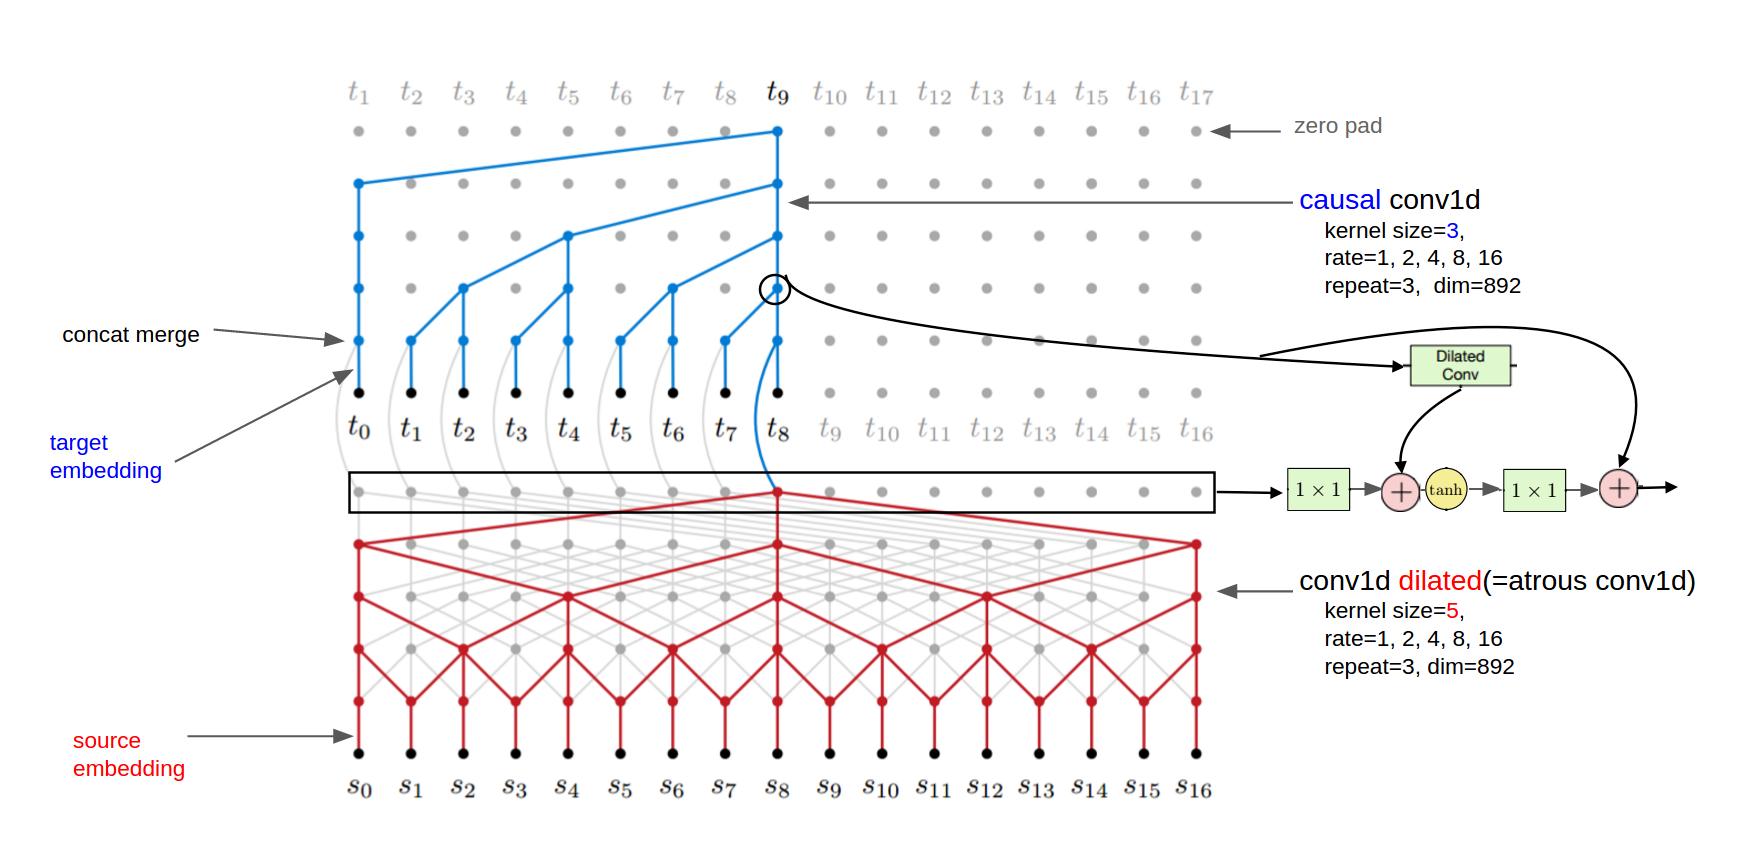
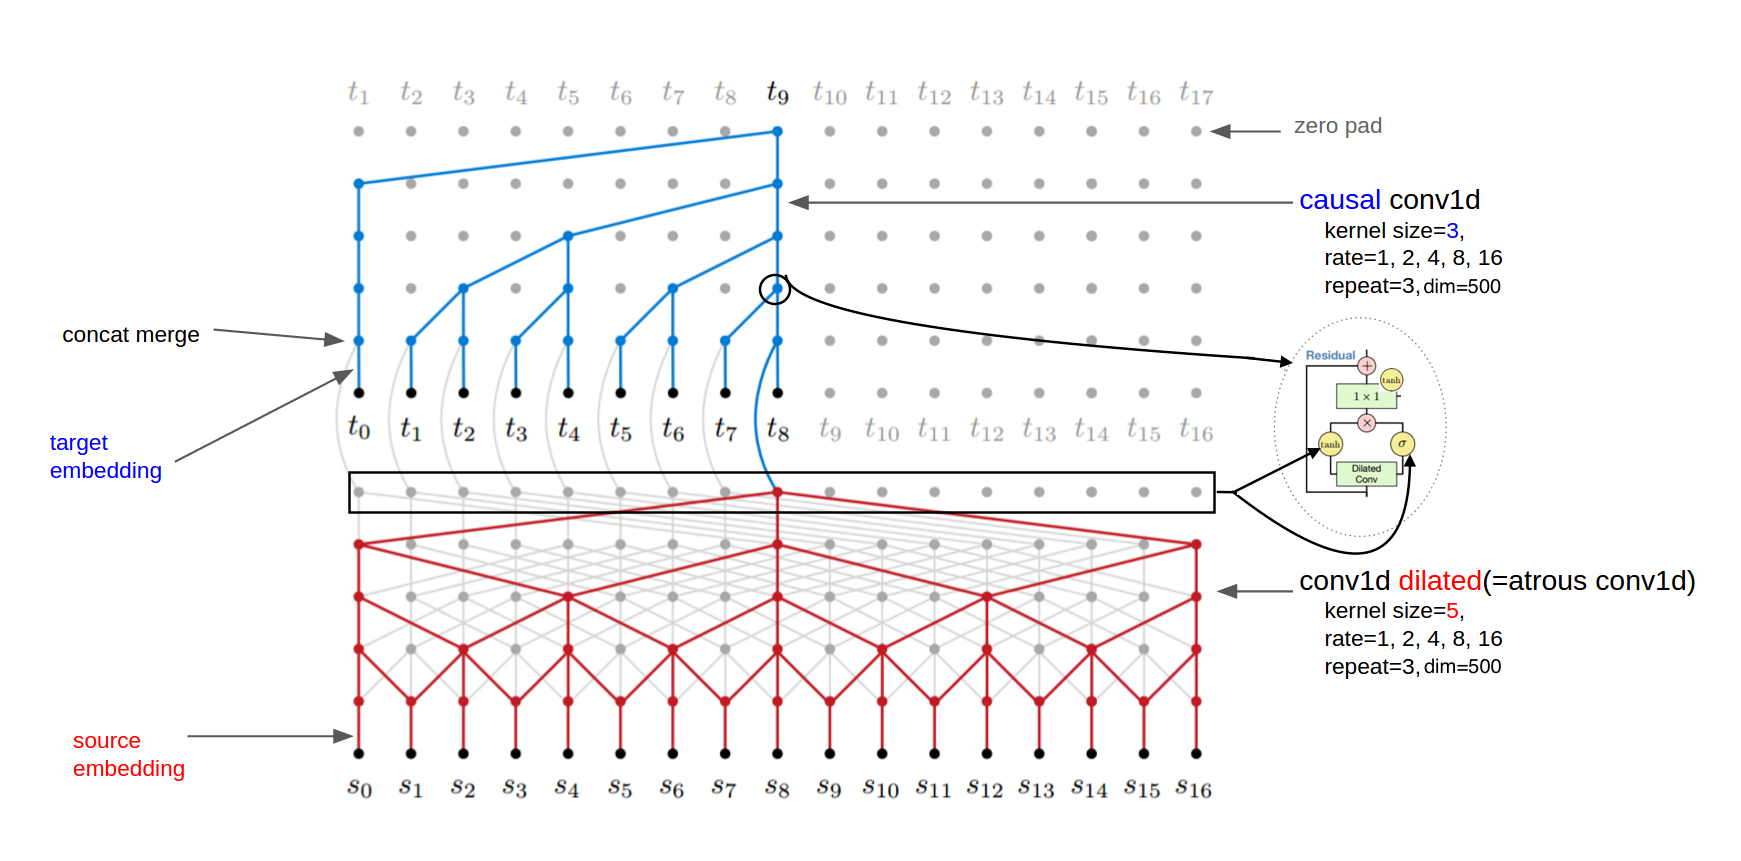
updated presentation

Changed region(s): [[0.7134, 0.302, 0.9615, 0.6341], [0.8064, 0.7549, 0.8685, 0.7851], [0.8995, 0.3926, 0.9305, 0.4228]]

diff --git a/index.html b/index.html
@@ -151,6 +151,17 @@
             <div class="section-subheader">Fully convolutional dialogue system based on causal convolutions not applied previously to authors knowledge.</div>
           </div>
         </section>
+        <section id="contributions">
+          <div class="text">
+            <h2>Why is this worth pursuing?</h2>
+            <ul>
+            <li class="section-subheader">Seek to improve on standard LSTM models by taking into account longer contexts.</li>
+            <li class="section-subheader">Allows for easy incorporation of global/local conditioning on extra variables.</li>
+            <li class="section-subheader">Highly parallelizable for fast generation (see <a href="https://arxiv.org/abs/1610.10099">ByteNet</a>).</li>
+            <li class="section-subheader">Character level allows for implicit modeling of words. No need for <i>UNK</i>.</li>
+            </ul>
+          </div>
+        </section>
       </section>
 
       <section>
@@ -178,19 +189,19 @@
         <section>
           <div class="text">
             <h2>ByteNet Architecture</h2>
-            <div class="section-subheader"><img src="$/images_pf/bytenet.png"/></div>
+            <div class="section-subheader"><img src="$/images_pf/bytenet.png"/><br/><span style="font-size: 16px;">Note: image taken from <a href="https://github.com/buriburisuri/ByteNet">ByteNet paper and modified.</a></span></div>
           </div>
         </section>
         <section>
           <div class="text">
             <h2>Modified ByteNet Architecture</h2>
-            <div class="section-subheader"><img src="$/images_pf/modified_bytenet.png"/></div>
+            <div class="section-subheader"><img src="$/images_pf/modified_bytenet.png"/><br/><span style="font-size: 16px;">Note: image create from combined <a href="https://github.com/buriburisuri/ByteNet">ByteNet</a> and <a href="https://github.com/buriburisuri/speech-to-text-wavenet">WaveNet papers.</a></span></div>
           </div>
         </section>
         <section>
           <div class="text">
-            <h2>Modified ByteNet Architecture</h2>
-            <div class="section-subheader">$z=\tanh(W*x + V*h) \odot \sigma (W*x + V*h)$</div>
+            <h2>Modified ByteNet Architecture<br/>Global Conditioning</h2>
+            <div class="section-subheader">$z=\tanh(W*x + V*h) \odot \sigma (W*x + V*h)$<br/><br/> Taken from WaveNet global conditioning model.</div>
           </div>
         </section>
         <section>
@@ -287,6 +298,7 @@
           </ul>
           </div>
         </section>
+        <!--
         <section>
           <div class="text">
             <h2>Experiment 1: Raw ByteNet Architecture w/ Beam Search</h2>
@@ -307,7 +319,7 @@
             <h2>Baseline: Word-Level Seq2Seq with Attention and Beam Search</h2>
             <div class="section-subheader">Bleu Score on Validation Set: 1.23</div>
           </div>
-        </section>
+        </section>-->
       </section>
 
 
@@ -318,7 +330,7 @@
             <ul>
               <li class="section-subheader">Word Level Seq2Seq with Attention: 1.30 </li>
               <li class="section-subheader">Original Character-level ByteNet: 1.46</li>
-              <li class="section-subheader">Modified Character-level ByteNet: TODO</li>
+              <li class="section-subheader">Modified Character-level ByteNet: 2.01</li>
             </ul>
           </div>
         </section>
@@ -329,7 +341,7 @@
             <li class="section-subheader">Appropriateness of response (average rating)</li>
             <li class="section-subheader">Baseline Seq2Seq: 2.16</li>
             <li class="section-subheader">Baseline ByteNet: 2.23</li>
-            <li class="section-subheader">Modified Character-level ByteNet: TODO</li>
+            <li class="section-subheader">Modified Character-level ByteNet: 1.89</li>
             <li class="section-subheader">Human: 4.68</li>
           </ul>
           </div>
@@ -341,7 +353,7 @@
             <li class="section-subheader">Grammaticality (average rating)</li>
             <li class="section-subheader">Baseline Seq2Seq: 5</li>
             <li class="section-subheader">Baseline ByteNet: 4.59</li>
-            <li class="section-subheader">Modified Character-level ByteNet: </li>
+            <li class="section-subheader">Modified Character-level ByteNet: 4.17</li>
             <li class="section-subheader">Human Average rank: 5</li>
             </ul>
           </div>
@@ -353,7 +365,7 @@
             <li class="section-subheader">Information Gain/Diversity (average rating)</li>
             <li class="section-subheader">Baseline Seq2Seq: 1.45</li>
             <li class="section-subheader">Baseline ByteNet: 1.72</li>
-            <li class="section-subheader">Modified Character-level ByteNet: TODO</li>
+            <li class="section-subheader">Modified Character-level ByteNet: 2.14</li>
             <li class="section-subheader">Human Average rank: 4.26</li>
             </ul>
           </div>
@@ -419,7 +431,7 @@
           <div class="text">
             <h2>Analysis and Discussion</h2>
             <div class="section-subheader">Low BLEU scores.</div>
-            <div class="section-subheader">Partly due to inneffectiveness of BLEU as a metric for dialogue systems.</div>
+            <div class="section-subheader">BLEU score not great. Maybe <a href="https://openreview.net/pdf?id=HJ5PIaseg">ADEM better</a> (but not yet published)?</div>
             <div class="section-subheader">Small and noisy dataset.</div>
           </div>
         </section>
@@ -438,13 +450,6 @@
         <section >
           <div class="text">
             <h2>Analysis and Discussion</h2>
-            <div class="section-subheader">Alternative Evaluation Metrics</div>
-            <div class="section-subheader">BLEU score not great. Maybe <a href="https://openreview.net/pdf?id=HJ5PIaseg">ADEM better</a> (but not yet published)?</div>
-          </div>
-        </section>
-        <section >
-          <div class="text">
-            <h2>Analysis and Discussion</h2>
             <div class="section-subheader"><b>Prohibitive Training Time</b></div>
             <ul>
             <li class="section-subheader">Extremely long (~2 days for model to converge on ~80k sentence pairs)</li>
@@ -453,26 +458,7 @@
             </ul>
           </div>
         </section>
-        <section >
-          <div class="text">
-            <h2>Modified ByteNet Strengths</h2>
-            <ul>
-            <li class="section-subheader">More diverse responses</li>
-            <li class="section-subheader">Can model character level phenomena like ellipses...</li>
-            <li class="section-subheader">Learns to model language.</li>
-          </ul>
-          </div>
-        </section>
-        <section >
-          <div class="text">
-            <h2>Modified ByteNet Weaknesses</h2>
-            <ul>
-            <li class="section-subheader">Still some noisy output</li>
-            <li class="section-subheader">Needs larger model for effective responses</li>
-            <li class="section-subheader">Data hungry model.</li>
-          </ul>
-          </div>
-        </section>
+
       </section>
 
       <section>
@@ -485,7 +471,27 @@
         <section>
           <div class="text">
             <h2>Conclusion</h2>
-            <div class="section-subheader">Modified character-level ByteNet architecture competitive with basic word-level Seq2Seq.</div>
+            <div class="section-subheader">Character-level ByteNet architecture competitive with basic word-level Seq2Seq.</div>
+          </div>
+        </section>
+        <section >
+          <div class="text">
+            <h2>ByteNet Strengths</h2>
+            <ul>
+            <li class="section-subheader">More diverse responses</li>
+            <li class="section-subheader">Can model character level phenomena like ellipses...</li>
+            <li class="section-subheader">Learns to model language.</li>
+          </ul>
+          </div>
+        </section>
+        <section >
+          <div class="text">
+            <h2>ByteNet Weaknesses</h2>
+            <ul>
+            <li class="section-subheader">Still some noisy output</li>
+            <li class="section-subheader">Needs larger model for effective responses</li>
+            <li class="section-subheader">Data hungry model.</li>
+          </ul>
           </div>
         </section>
         <section>
